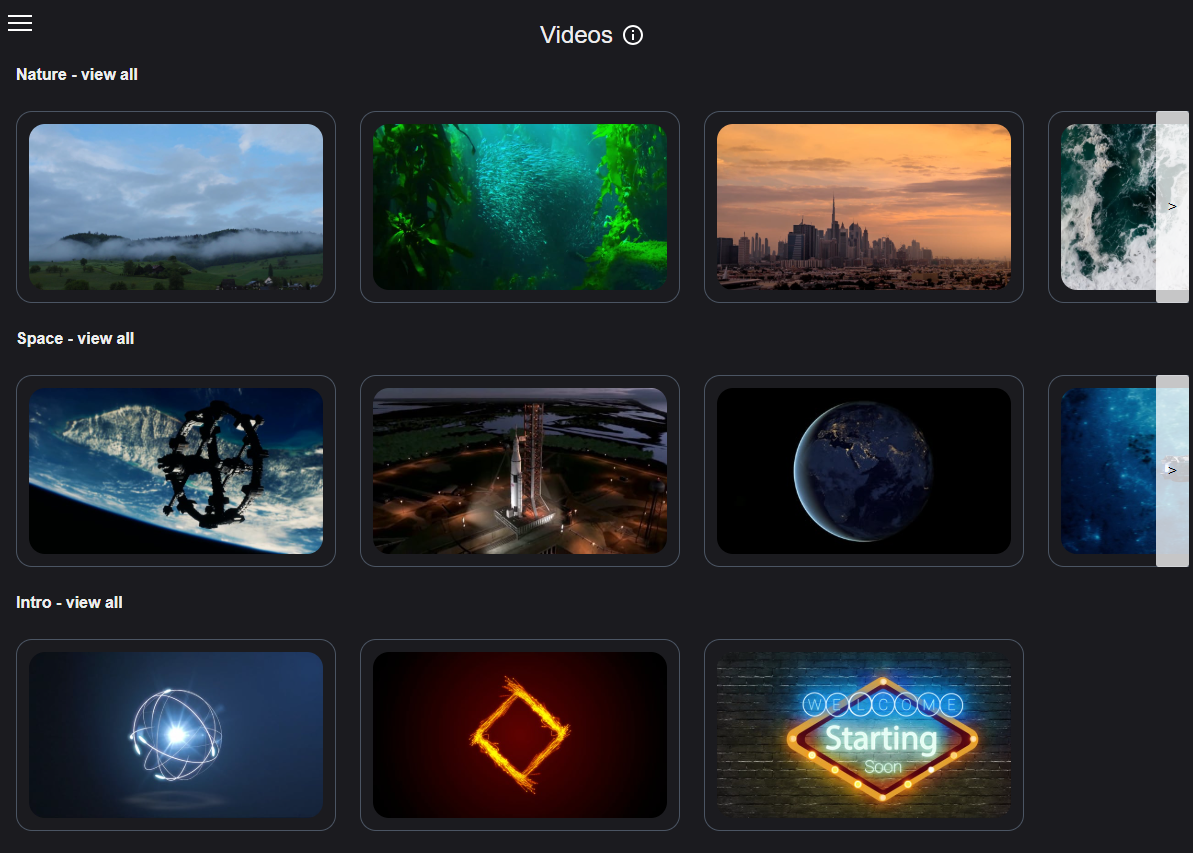
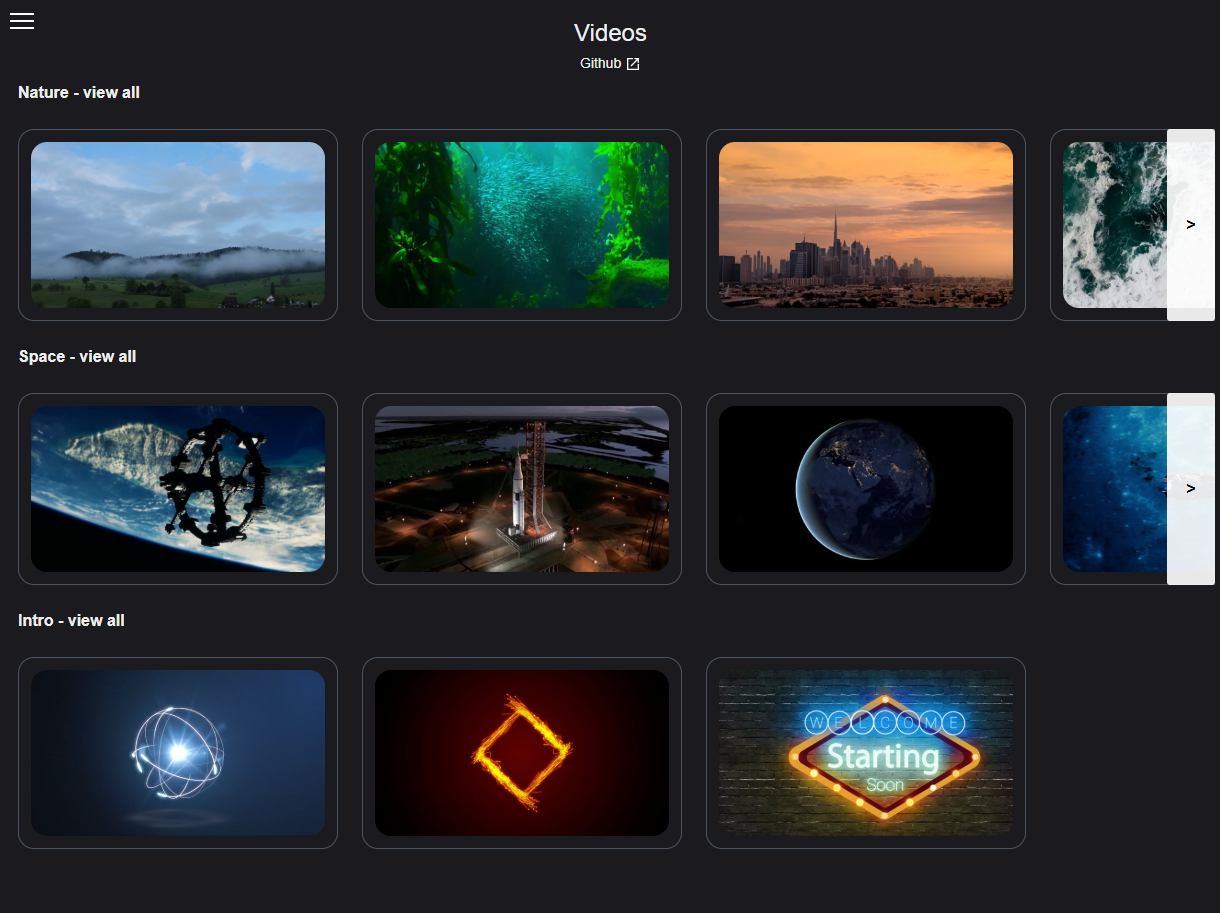
update scroll css and screenshots

diff --git a/index.css b/index.css
@@ -5,6 +5,20 @@
   --font-small: 16px;
   --skills-modal-height: 500px;
   --skills-modal-transition-time: 0.5s;
+  scrollbar-color: #515158 #bbbbca;
+}
+
+::-webkit-scrollbar {
+  width: 1rem;
+}
+
+::-webkit-scrollbar-track {
+  background-color: #515158;
+}
+
+::-webkit-scrollbar-thumb {
+  background-color: #bbbbca;
+  box-shadow: inset 0 0 6px rgba(0, 0, 0, 0.3);
 }
 
 html,

diff --git a/index.html b/index.html
@@ -6,7 +6,7 @@
     <meta name="theme-color" content="#000000" />
     <link rel="shortcut icon" type="image/ico" href="assets/favicon.ico" />
     <link rel="stylesheet" href="index.css" />
-    <title>Michael Kovacsik Portfolio</title>
+    <title>Michael Kovacsik</title>
   </head>
   <body>
     <div class="background-vid">
